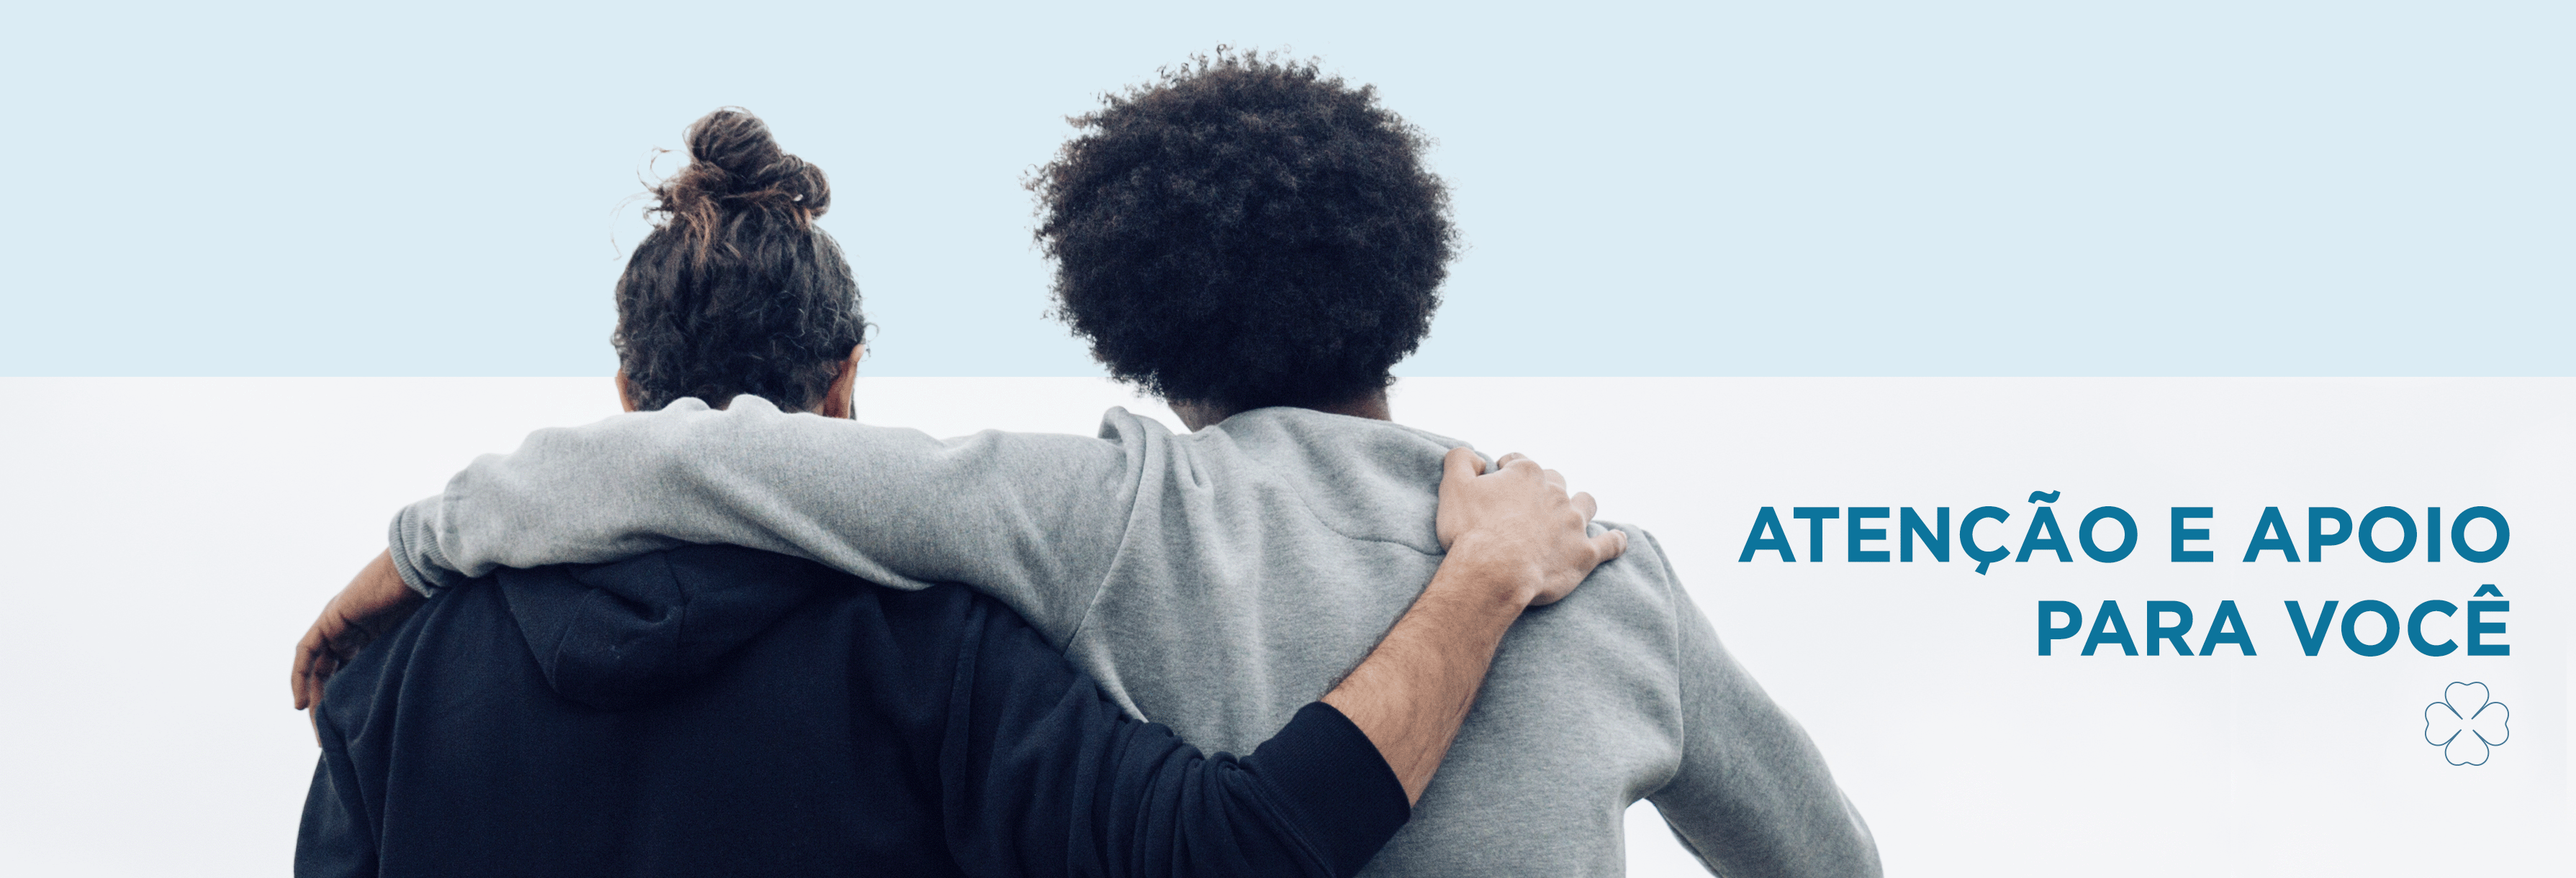
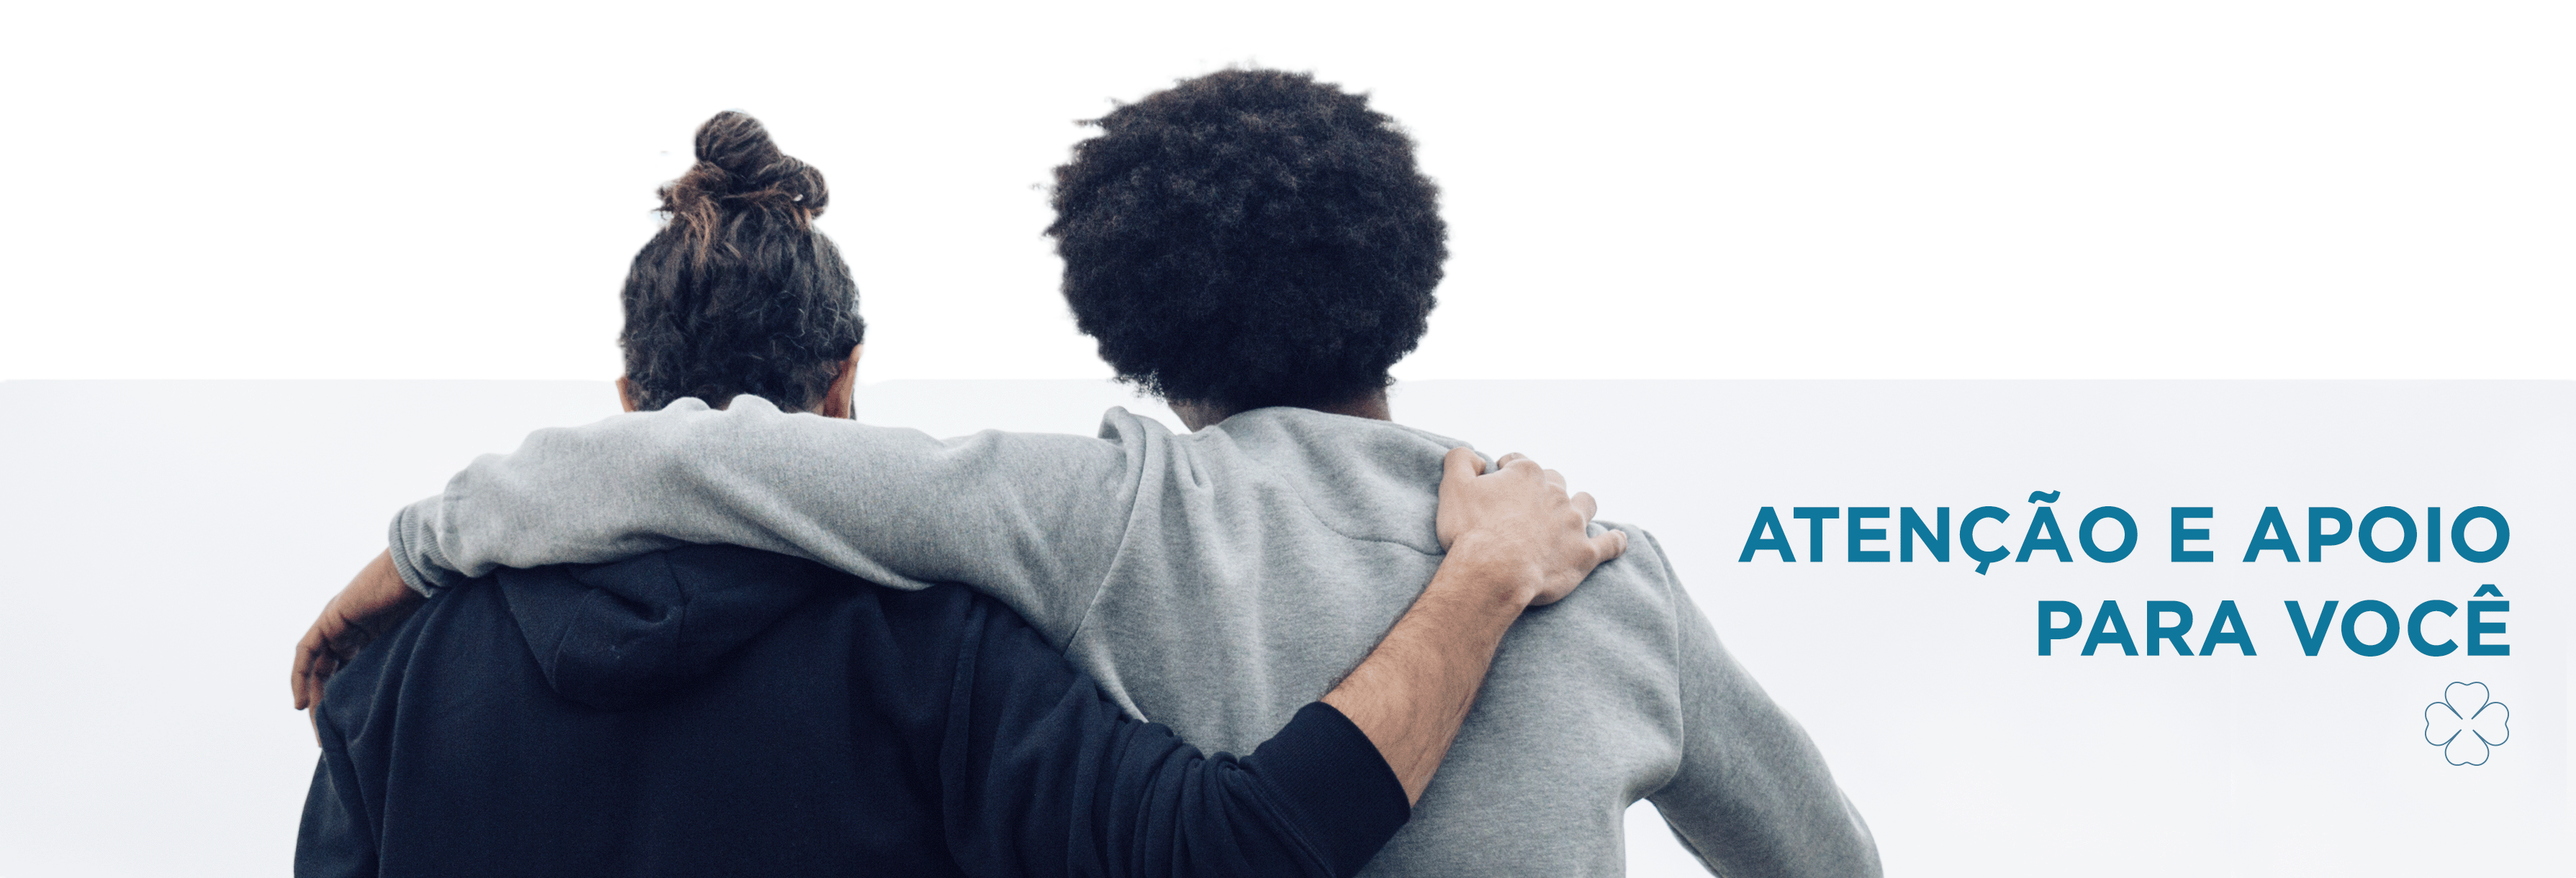
Ajuste imagem

diff --git a/index.html b/index.html
@@ -166,8 +166,8 @@
         </div>
       </div>
     </section>
-    <section class="dobra_dois">
-     
+    <section >
+      <img src="assets/img/foto_dobra_2.png" class="img-fluid" alt="">
         
     </section>
     <section id="projetos" class="p-5" style="background-color: #FFFFFF;">

diff --git a/assets/css/main.css b/assets/css/main.css
@@ -2009,12 +2009,3 @@ section {
 .btn:hover .hover-text {
   display: inline;
 }
-
-.dobra_dois{
-  background-image: url('../img/dobrafoto2.jpg');
-  background-size: cover;
-  height: 0.25rem;
-  display: flex;
-  justify-content: center;
-  align-items: center;
-}
